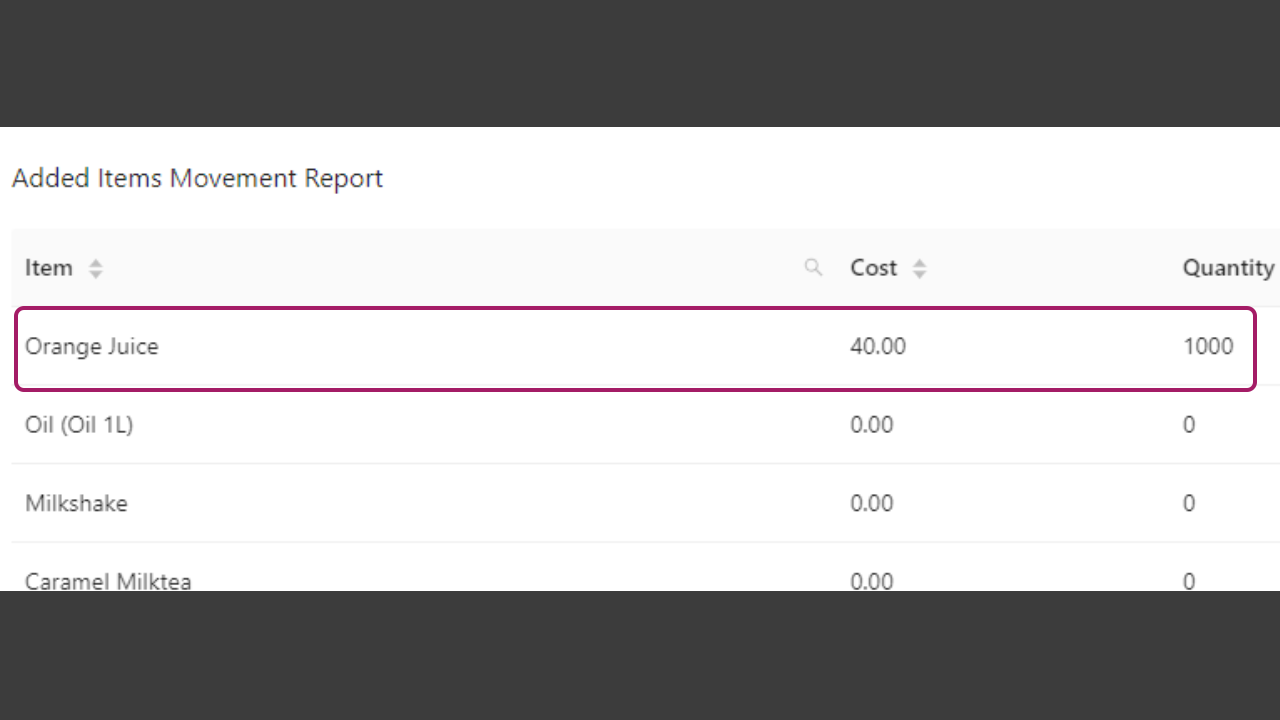
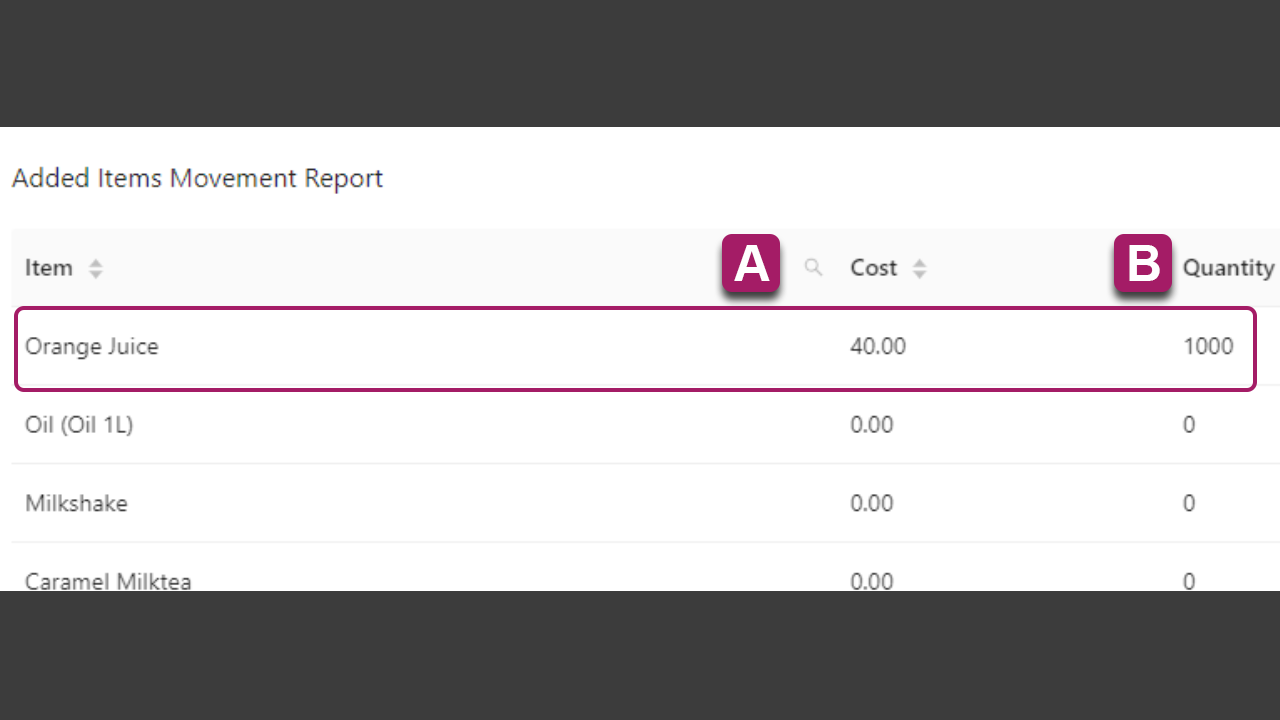
Added and Edited

Changed region(s): [[0.8438, 0.3056, 0.9375, 0.4278], [0.5625, 0.3056, 0.625, 0.4278]]

diff --git a/docs/_inventory/summary.md b/docs/_inventory/summary.md
@@ -16,8 +16,28 @@ The summary report shows you a report of all your sales transactions and invento
 
 <br><br><br><br><br>
 
-<p><img src="_content/_summary/3.png" alt="nav" width="480" height="270" style="float:left; margin-right:1rem"><br><br>3. This is an overview of your Items Summary report during a certain period of time on a specific date. Click <b>Export</b> to export the summary report.
+<p><img src="_content/_summary/3.png" alt="nav" width="480" height="270" style="float:left; margin-right:1rem"><br><br>3. This is an overview of your Items Summary report during a certain period of time on a specific date. Click <b>Export</b> to export the summary report.</p>
+
+<br><br><br><br>
+
+<p><img src="_content/_summary/4.png" alt="nav" width="480" height="270" style="float:left; margin-right:1rem"><br><h5>
+<ol type="A" style="float:left; margin-left:1rem">
+<li>Item name</li>
+<li>Item category</li>
+<li>Beginning inventory count of item.<br><b>Quantity</b> - physical count of item<br><b>Total Amount</b> - total cost of the quantity in inventory</li>
+<li>Added stocks or items to your inventory after input of beginning count</li>
+<li>Deducted stocks or items to your inventory after input of beginning count</li>
 </ol>
 </h5></p>
 
-<br><br><br><br>
+<br><br><br><br><br><br><br><br>
+
+<p><img src="_content/_summary/5.png" alt="nav" width="480" height="270" style="float:left; margin-right:1rem"><br><br><h5>
+<ol start="6" type="A" style="float:left; margin-left:1rem">
+<li>Total sales count the item has made</li>
+<li>Total refund count the item has made</li>
+<li>Number of stocks transferred from one warehouse to another</li>
+</ol>
+</h5></p>
+
+<br><br><br><br><br><br><br>

diff --git a/docs/_employee/eback.md b/docs/_employee/eback.md
@@ -1,0 +1,29 @@
+# **Employees in the Back Office**
+
+You can also manage your employees in the back office. You access the back office through KaHero POS app or <a href="https://app.kahero.co/">app.kahero.co</a>.
+
+<p><img src="_content/_employeeback/1.png" alt="nav" width="480" height="270" style="float:left; margin-right:1rem"><br><br><br>On the back office, navigate to the <b>Employees</b> section.</p>
+
+<br><br><br><br>
+
+## Adding Employees
+
+<p><img src="_content/_employeeback/2.png" alt="nav" width="480" height="270" style="float:left; margin-right:1rem"><br><br><br>1. This is your employee's information. Click on <b>New Employee</b> to add a new employee.</p>
+
+<br><br><br><br>
+
+<p><img src="_content/_employeeback/3.png" alt="nav" width="480" height="270" style="float:left; margin-right:1rem"><br><br><br>2. Input your employee's information on this pop-up. Input their <b>E-mail</b>, <b>First Name</b>, <b>Last Name</b>, <b>Branch</b>, <b>Phone Number</b>, <b>Start Time</b>, & <b>End Time</b>.</p>
+
+<br><br><br>
+
+## Total hours worked
+
+<p><img src="_content/_employeeback/4.png" alt="nav" width="480" height="270" style="float:left; margin-right:1rem"><br><br><br>This tab shows your employee's total hours worked. Click <b>Export</b> to export this record to a CSV or Excel file.</p>
+
+<br><br><br><br>
+
+## Time cards
+
+<p><img src="_content/_employeeback/5.png" alt="nav" width="480" height="270" style="float:left; margin-right:1rem"><br><br><br>This tab shows your employee's time entries. Click <b>New time Card</b> to record time in and out of your employees. Click <b>Export</b> to export this record to a CSV or Excel file.</p>
+
+<br><br><br><br>

diff --git a/docs/_inventory/movement.md b/docs/_inventory/movement.md
@@ -16,10 +16,10 @@ The movement report shows you a report of the adjustments of your item details o
 
 <br><br><br><br><br>
 
-<p><img src="_content/_movement/2.png" alt="nav" width="480" height="270" style="float:left; margin-right:1rem"><br><br><br>3. For example, you added a new item on the listings named "Orange Juice". You can find the addition of the item on a specific date and the details you have input such as the item cost and the quantity in the warehouse.</p>
+<p><img src="_content/_movement/2.png" alt="nav" width="480" height="270" style="float:left; margin-right:1rem"><br><br><br>3. For example, you added a new item on the listings named "Orange Juice". You can find the addition of the item on a specific date and the details you have input such as the <b>A. item cost</b> and the <b>B. quantity</b> in the warehouse.</p>
 
 <br><br>
 
-<p><img src="_content/_movement/3.png" alt="nav" width="480" height="270" style="float:left; margin-right:1rem"><br><br><br>You can also find the total cost of your item and the total price of the total count of the specific item in stock. Click <b>Export</b> to export the movement report.</p>
+<p><img src="_content/_movement/3.png" alt="nav" width="480" height="270" style="float:left; margin-right:1rem"><br><br><br>You can also find the <b>A. total cost</b> of your item and the <b>B. total price</b> of the total count of the specific item in stock. Click <b>Export</b> to export the movement report.</p>
 
 <br><br><br><br>

diff --git a/docs/_employee/time.md b/docs/_employee/time.md
@@ -1,0 +1,21 @@
+# **Time Entries**
+
+With time entries, KaHero POS allwos you to keep track of your employees' in and out time.
+
+<p><img src="_content/_time/1.png" alt="nav" width="480" height="270" style="float:left; margin-right:1rem"><br><br><br>1. On the <b>Navigation Menu</b> under <b>Employee Management</b>, select <b>Time Entries</b>.</p>
+
+<br><br><br><br>
+
+<p><img src="_content/_time/2.png" alt="nav" width="480" height="270" style="float:left; margin-right:1rem"><br><br>2. This is your Time Entrees screen.<h5>
+<ol type="A" style="float:left; margin-left:1rem">
+<li>If you are using more than one device for a different branch, you can select<br>the branch on this drop down.</li>
+<li>Manually search for your employee's name, or the employee<br>can manually search for their names.</li>
+<li>Click this drop down to find your employee's name and click <b>Add</b>.</li>
+</ol>
+</h5></p>
+
+<br><br><br><br><br><br>
+
+<p><img src="_content/_time/1.gif" alt="nav" width="480" height="270" style="float:left; margin-right:1rem"><br>Your employee's name should appear on the space below.<br><br>A. Click on the empty photo of the in-time button.<br>B. You will be sent to the camera selfie. Take a picture.<br>C. Your picture along with the time and date of your entry should show.<br>D. Do the same when for your out-time</p>
+
+<br>

diff --git a/docs/_sidebar.md b/docs/_sidebar.md
@@ -39,4 +39,21 @@
   - [Adding Employees](/_employee/adding.md)
   - [Changing Employees/Users](/_employee/change.md)
   - [Time Entries](/_employee/time.md)
-  - [Employees - Back Office](/_employee/back.md)
+  - [Employees - Back Office](/_employee/eback.md)
+
+- Customers
+  - [Signing Up a Customer](/_customer/sign.md)
+  - [Sending Receipt E-mail](/_customer/receiptemail.md)
+  - [Information & Notes on Receipt](/_customer/information.md)
+  - [Customer - Back Office](/_customer/cback.md)
+  - [Customer Purchase History](/_customer/purchase.md)
+
+- Reports
+  - [Sales Report - Back Office](/_reports/sales.md)
+  - [Shifts Report - Back Office](/_reports/shift.md)
+  - [Sales Inventory - Back Office](/_reports/inventory.md)
+  - [Receipts Reports - Back Office](/_reports/receipts.md)
+  - [X-Reading Report](/_reports/x.md)
+  - [Z-Reading Report](/_reports/z.md)
+  - [Calculation of Taxes](/_reports/taxes.md)
+  - [KaHero Sales Analytics](/_reports/analytics.md)

diff --git a/docs/_customer/sign.md b/docs/_customer/sign.md
@@ -1,0 +1,15 @@
+# **Signing a Customer Up in KaHero POS**
+
+KaHero POS allows you to add your customers and keep record of their transactions in your shop.
+
+<p><img src="_content/_custsign/1.png" alt="nav" width="480" height="270" style="float:left; margin-right:1rem"><br><br><br>1. On the <b>Navigation Menu</b>, select <b>Customers</b>.</p>
+
+<br><br><br><br><br>
+
+<p><img src="_content/_custsign/2.png" alt="nav" width="480" height="270" style="float:left; margin-right:1rem"><br><br><br>2. Click <b>Add a Customer</b>.</p>
+
+<br><br><br><br><br>
+
+<p><img src="_content/_custsign/3.png" alt="nav" width="480" height="270" style="float:left; margin-right:1rem"><br><br><br>3. Input your customer's information. Input <b>Customer Name</b>, <b>Customer Email</b>, <b>Customer Number</b>, <b>Note</b>, & their <b>Address</b>.</p>
+
+<br><br><br><br><br>

diff --git a/docs/_customer/receiptemail.md b/docs/_customer/receiptemail.md
@@ -1,0 +1,11 @@
+# **Sending E-mail with Receipt to Customers**
+
+KaHero POS allows you to email your customer's receipts to them. Everytime you make a transaction, you produce your transaction receipts. Your customers may ask you to email their transactions to their emails.
+
+<p><img src="_content/_refunds/1.png" alt="nav" width="480" height="270" style="float:left; margin-right:1rem"><br><br><br>1. On the <b>Navigation Menu</b>, select <b>Receipts</b> to go to your receipts page.</p>
+
+<br><br><br><br>
+
+<p><img src="_content/_emailreceipt/2.png" alt="nav" width="480" height="270" style="float:left; margin-right:1rem"><br><br><br>2. Choose which receipt you would like email. Tap the three dots on the top right.</p>
+
+<br><br><br><br>

diff --git a/docs/_employee/change.md b/docs/_employee/change.md
@@ -1,3 +1,9 @@
 # **Changing Employees/Users**
 
 If your POS has multiple users, there will be a need to switch users whenever a user's shift is over. If you have the <b>Shift Management</b> feature enabled, you will have to end any open shift in order to switch to another user.
+
+<p><img src="_content/_change/1.png" alt="nav" width="480" height="270" style="float:left; margin-right:1rem"><br><br><br>1. Without any shift open or started, exit from the KaHero POS application. Upon opening the application again, you will be sent to the log in screen. Select the new user.</p>
+
+<br><br><br><br>
+
+> The new user can now navigate through the app using their own credentials.

diff --git a/docs/_reports/taxes.md b/docs/_reports/taxes.md
@@ -1,0 +1,3 @@
+# **Calculation and Application of Taxes in KaHero POS**
+
+KaHero POS allows you to manage your employees and keep track of their shifts and time entries.

diff --git a/docs/_customer/information.md b/docs/_customer/information.md
@@ -1,0 +1,3 @@
+# **Customer Information & Notes on Receipt**
+
+KaHero POS allows you to manage your employees and keep track of their shifts and time entries.

diff --git a/docs/_reports/sales.md b/docs/_reports/sales.md
@@ -1,0 +1,3 @@
+# **Sales Summary Report in the Back Office**
+
+KaHero POS allows you to manage your employees and keep track of their shifts and time entries.

diff --git a/docs/_reports/inventory.md b/docs/_reports/inventory.md
@@ -1,0 +1,3 @@
+# **Sales Inventory in the Back Office**
+
+KaHero POS allows you to manage your employees and keep track of their shifts and time entries.
